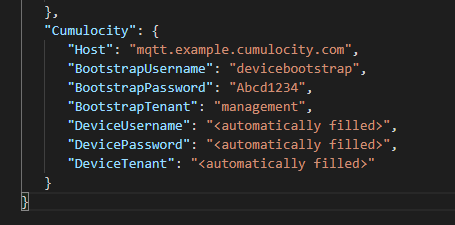
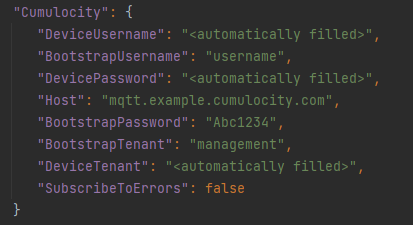
Add config option for receiving errors
Add a configuration file option for subscribing
to the Cumulocity error topic.

diff --git a/src/main/java/com/hms_networks/sc/cumulocity/config/CConnectorConfigFile.java b/src/main/java/com/hms_networks/sc/cumulocity/config/CConnectorConfigFile.java
@@ -48,6 +48,9 @@ public class CConnectorConfigFile extends ConfigFile {
   /** Key for accessing the 'Host' object in the configuration file. */
   private static final String CONFIG_FILE_HOST_KEY = "Host";
 
+  /** Key for accessing the 'SubscribeToErrors' object in the configuration file. */
+  private static final String CONFIG_FILE_SUBSCRIBE_TO_ERRORS_KEY = "SubscribeToErrors";
+
   /** Key for accessing the 'LogLevel' object in the configuration file. */
   private static final String CONFIG_FILE_LOG_LEVEL_KEY = "LogLevel";
 
@@ -76,6 +79,9 @@ public class CConnectorConfigFile extends ConfigFile {
 
   /** The default interval (in milliseconds) to poll the historical data queue. */
   private static final long QUEUE_DATA_POLL_INTERVAL_MILLIS_DEFAULT = 10000;
+
+  /** The default value for the subscribe to errors setting. */
+  private static final boolean SUBSCRIBE_TO_ERRORS_DEFAULT = false;
 
   /**
    * Default value of boolean flag indicating if string history data should be retrieved from the
@@ -185,6 +191,13 @@ public class CConnectorConfigFile extends ConfigFile {
    */
   private static final String CUMULOCITY_HOST_CONFIG_NAME =
       CONFIG_FILE_CUMULOCITY_KEY + "/" + CONFIG_FILE_HOST_KEY;
+
+  /**
+   * The configuration field name used for the Cumulocity subscribe to errors setting when
+   * communicating with Cumulocity.
+   */
+  private static final String CUMULOCITY_SUBSCRIBE_TO_ERRORS_CONFIG_NAME =
+      CONFIG_FILE_CUMULOCITY_KEY + "/" + CONFIG_FILE_SUBSCRIBE_TO_ERRORS_KEY;
 
   /**
    * Returns a boolean indicating if device provisioning is required.
@@ -332,6 +345,27 @@ public class CConnectorConfigFile extends ConfigFile {
     return configurationObject
         .getJSONObject(CONFIG_FILE_CUMULOCITY_KEY)
         .getString(CONFIG_FILE_HOST_KEY);
+  }
+
+  /**
+   * Gets the Cumulocity subscribe to errors setting.
+   *
+   * @return Cumulocity subscribe to errors setting
+   */
+  public boolean getCumulocitySubscribeToErrors() {
+    boolean subscribeToErrors = SUBSCRIBE_TO_ERRORS_DEFAULT;
+    try {
+      subscribeToErrors =
+          configurationObject
+              .getJSONObject(CONFIG_FILE_CUMULOCITY_KEY)
+              .getBoolean(CONFIG_FILE_SUBSCRIBE_TO_ERRORS_KEY);
+    } catch (JSONException e) {
+      Logger.LOG_DEBUG(
+          CONFIG_FILE_SUBSCRIBE_TO_ERRORS_KEY
+              + " not found in configuration file. Using default: "
+              + subscribeToErrors);
+    }
+    return subscribeToErrors;
   }
 
   /**
@@ -580,6 +614,13 @@ public class CConnectorConfigFile extends ConfigFile {
         configurationObject
             .getJSONObject(CONFIG_FILE_CUMULOCITY_KEY)
             .put(CONFIG_FILE_HOST_KEY, configFileEscapedStringLineValue);
+      } else if (configFileEscapedStringLineKey.equals(
+          CUMULOCITY_SUBSCRIBE_TO_ERRORS_CONFIG_NAME)) {
+        configurationObject
+            .getJSONObject(CONFIG_FILE_CUMULOCITY_KEY)
+            .put(
+                CONFIG_FILE_SUBSCRIBE_TO_ERRORS_KEY,
+                configFileEscapedStringLineValue.equals("true"));
       }
     }
     trySave();
@@ -775,6 +816,19 @@ public class CConnectorConfigFile extends ConfigFile {
       configFileEscapedString.append("\n");
     }
 
+    // Add Cumulocity/SubscribeToErrors
+    if (configurationObject
+        .getJSONObject(CONFIG_FILE_CUMULOCITY_KEY)
+        .has(CONFIG_FILE_SUBSCRIBE_TO_ERRORS_KEY)) {
+      configFileEscapedString.append(CUMULOCITY_SUBSCRIBE_TO_ERRORS_CONFIG_NAME);
+      configFileEscapedString.append("=");
+      configFileEscapedString.append(
+          configurationObject
+              .getJSONObject(CONFIG_FILE_CUMULOCITY_KEY)
+              .getString(CONFIG_FILE_SUBSCRIBE_TO_ERRORS_KEY));
+      configFileEscapedString.append("\n");
+    }
+
     return configFileEscapedString.toString();
   }
 
@@ -828,6 +882,8 @@ public class CConnectorConfigFile extends ConfigFile {
     defaultCumulocityConfigurationObject.put(
         CONFIG_FILE_DEVICE_TENANT_KEY, CONFIG_FILE_AUTOMATICALLY_FILLED_TEXT);
     defaultCumulocityConfigurationObject.put(CONFIG_FILE_HOST_KEY, "");
+    defaultCumulocityConfigurationObject.put(
+        CONFIG_FILE_SUBSCRIBE_TO_ERRORS_KEY, SUBSCRIBE_TO_ERRORS_DEFAULT);
 
     // Add default Cumulocity object and Connector object to a root object and return
     JSONObject defaultConfigObject = new JSONObject();

diff --git a/src/main/java/com/hms_networks/sc/cumulocity/api/CConnectorMqttMgr.java b/src/main/java/com/hms_networks/sc/cumulocity/api/CConnectorMqttMgr.java
@@ -167,7 +167,12 @@ public class CConnectorMqttMgr extends MqttManager {
     // Subscribe to Cumulocity MQTT topics
     if (!subscribedToTopics) {
       try {
-        subscribe("s/e", MQTT_QOS_LEVEL);
+        // Subscribe to Cumulocity error topic if enabled
+        if (CConnectorMain.getConnectorConfig().getCumulocitySubscribeToErrors()) {
+          Logger.LOG_INFO("Subscribing to Cumulocity error topic.");
+          subscribe("s/e", MQTT_QOS_LEVEL);
+        }
+
         subscribe(CUMULOCITY_MQTT_TOPIC_SDS, MQTT_QOS_LEVEL);
         subscribe(CUMULOCITY_MQTT_TOPIC_SDS + "/*", MQTT_QOS_LEVEL);
         subscribedToTopics = true;

diff --git a/README.md b/README.md
@@ -125,6 +125,10 @@ configured prior to running the connector.
 Parameter to specify the bootstrap tenant to use when registering to Cumulocity. This must be
 configured prior to running the connector.
 
+#### Subscribe to Errors (SubscribeToErrors)
+
+Parameter to enable subscribing to errors from the Cumulocity server.
+
 #### Device Username (DeviceUsername)
 
 This configuration field is filled automatically by the connector application, and is the device
